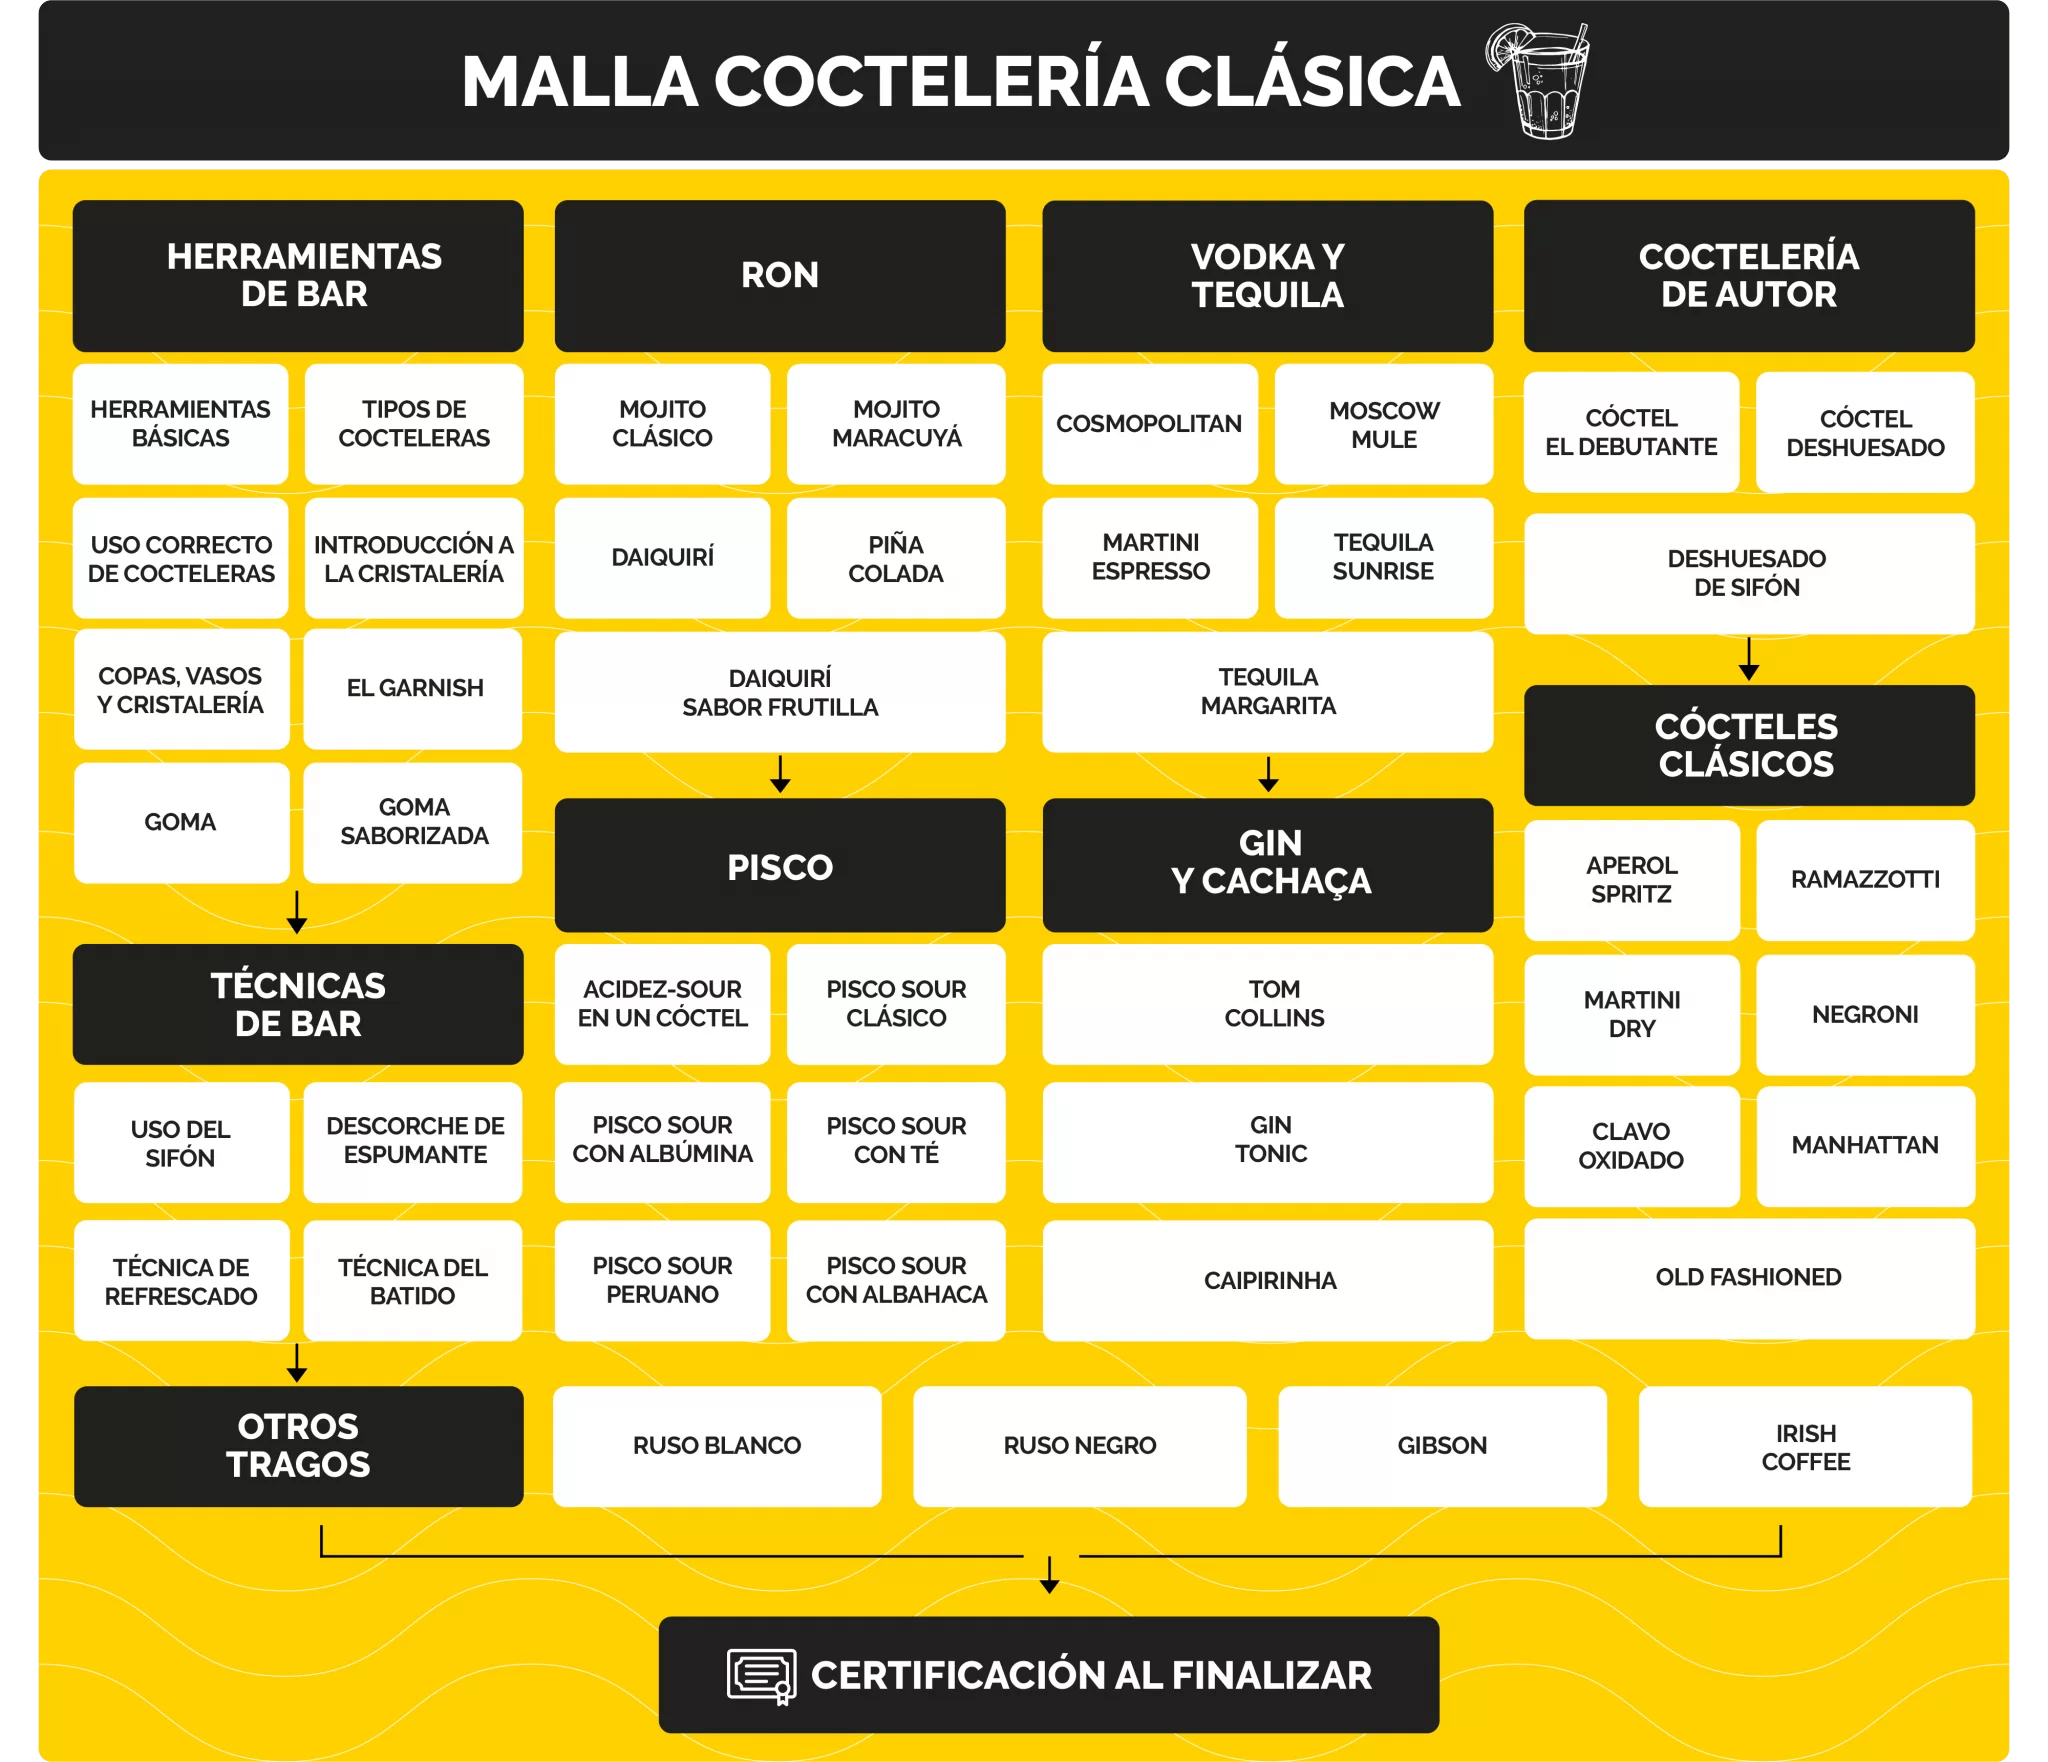
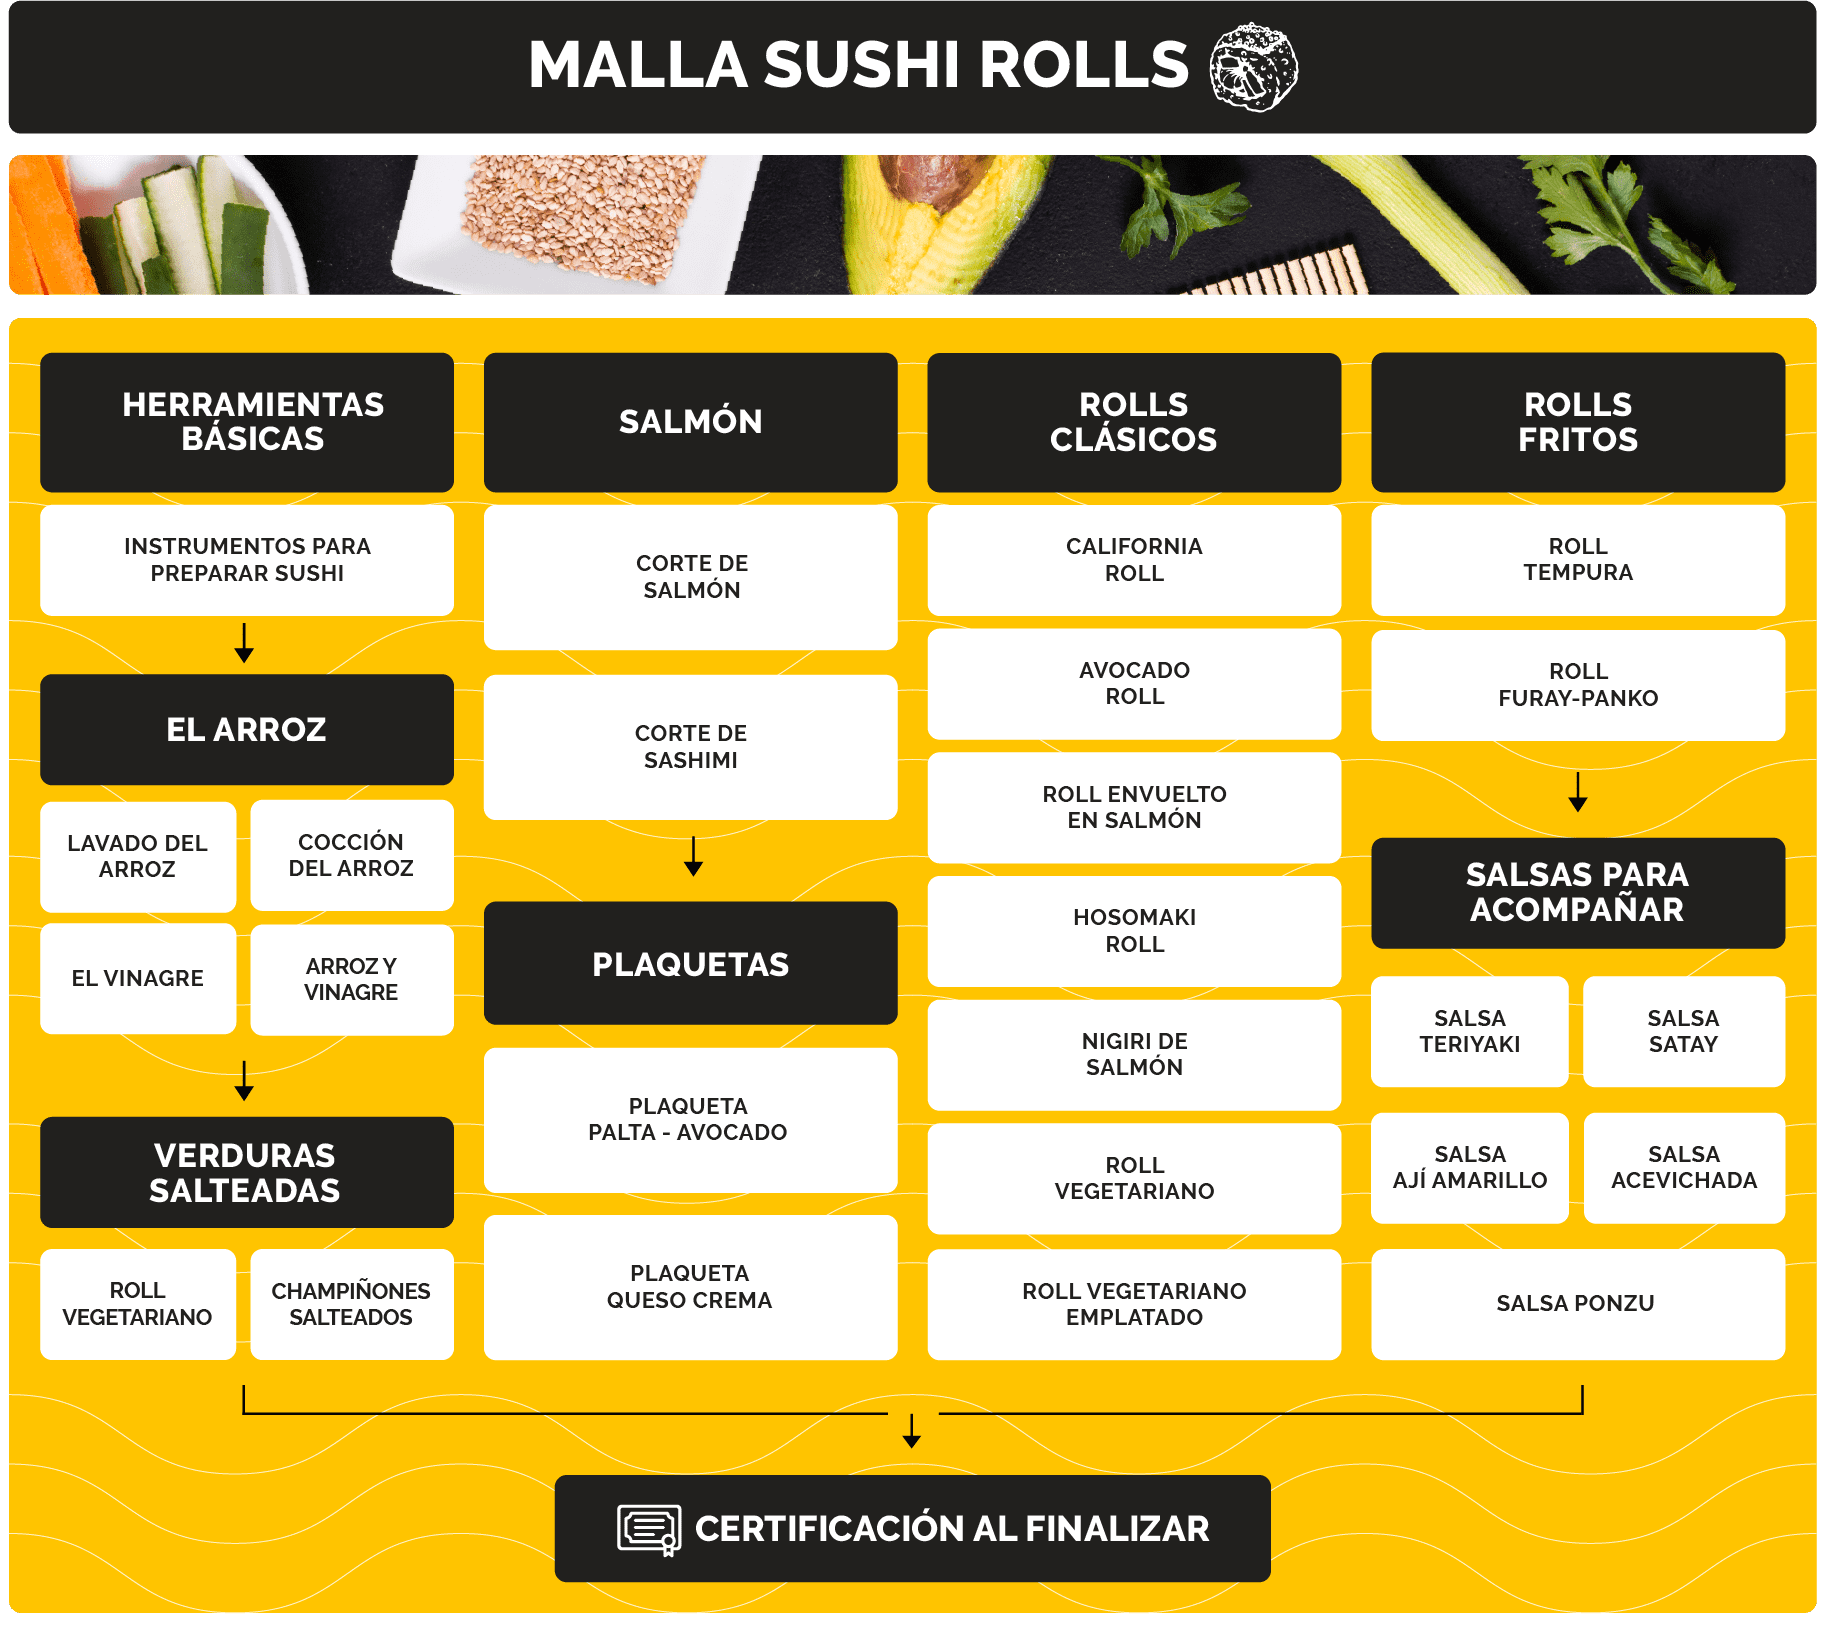
Sushi Roll

diff --git a/index.html b/index.html
@@ -13,8 +13,8 @@
 <body>
   <div class="container-svg">
     <div id="students" class="container_header">
-      <h2><strong>- 60% DESC →</strong> CURSO DE POR VIDA DESDE 45 USD 🍣</h2>
-      <h2 class="strong-header">- 60% → COMPRA MAS BARATO</h2>
+      <h2><strong> 60% DESC →</strong> CURSO DE POR VIDA DESDE 45 USD 🍣</h2>
+      <h2 class="strong-header">60% → COMPRA MAS BARATO</h2>
     </div>
     <div class="PageWeb">
       <div class="hero">
@@ -71,7 +71,7 @@
           </div>
         </div>
         <div class="primary-button">
-          <a href="https://go.hotmart.com/F61397187D?ap=d2a8" target="_blank"><span>COMPRAR AHORA</span></a>
+          <a href="https://go.hotmart.com/W68960930R?ap=a70f" target="_blank"><span>COMPRAR AHORA</span></a>
         </div>
         <h2 class="metitle metitle2">¿POR QUÉ DEBES TOMAR ESTE CURSO?</h2>
         <div class="content-text-img reason">
@@ -86,25 +86,25 @@
         <h2>BONUS 🎉</h2>
         <div class="container-bonus">
           <div>
-            <figure><img src="https://cursosdecocina.tv/wp-content/uploads/2021/01/E-BOOCK-WEB-COCTELERIA2.png.webp" alt="Libro Photography"></figure>
+            <figure><img src="https://cursosdecocina.tv/wp-content/uploads/2021/01/E-BOOCK-WEB-SUSHI2.png.webp" alt="Libro Photography"></figure>
             <p>CERTIFICACIÓN + LIBRO</p>
-            <p>Al finalizar tu curso, recibirás automáticamente tu certificación de coctelería. Nuestra experiencia através de los años avalan todos los contenidos.</p>
+            <p>Al finalizar tu curso, recibirás automáticamente tu certificación de Sushi Rolls. Nuestra experiencia através de los años avalan todos los contenidos.</p>
           </div>
           <div>
-            <figure><img src="https://previews.123rf.com/images/miloart/miloart1507/miloart150700002/42045509-c%C3%B3cteles-conjunto-infograf%C3%ADa-ilustraci%C3%B3n-del-vector-.jpg" alt="Infografias Photography"></figure>
+            <figure><img src="https://img.freepik.com/vector-gratis/fondo-sushi-japones_1284-19052.jpg?t=st=1648576017~exp=1648576617~hmac=d0c36bc98f8a512eafc09689e6c72764962d2736ee1ea2b0fefeb7986567a694&w=900" alt="Infografias Photography"></figure>
             <p>INFOGRAFIAS GRATIS</p>
             <p>Este recurso sera tu mejor amigo, aca adjunte todos <strong>mis secretos y trucos</strong> que te servirán de guía, la podras tener siempre a la mano.</p>
           </div>
           <div>
             <figure><img src="./assets/masterclases.png" alt="MasterClass Photography"></figure>
             <p>MASTERCLASSES</p>
-            <p>Prepárate con expertos en diferentes tipos de coctelería en una clase exclusiva para nuestros estudiantes.</p>
+            <p>Prepárate con expertos en diferentes tipos de Sushi Rolls en una clase exclusiva para nuestros estudiantes.</p>
           </div>
         </div>
         <div class="container-action">
           <p>TODOS MIS TRÚCOS, HERRAMIENTAS Y EXPERIENCIA:</p>
-          <a>ANTES: 45 USD</a>
-          <P>AHORA: 25 USD</P>
+          <a>ANTES: 125 USD</a>
+          <P>AHORA: 45 USD</P>
         </div>
         <h2 class="metitle">¿QUIÉN SOMOS?</h2>
         <div class="content-text-img">
@@ -120,7 +120,7 @@
             <p class="me">Somos cursosdecocina y te ofrecemos aquí nuestra experiencia de 5 años formando a cientos de entusiastas alumnos que hoy cocinan junto a sus familias o han levantado respetados emprendimientos. Se parte de este movimiento y cumple el sueño de formarte como pastelero, panadero y cocinero con nuestros cursos en línea y presenciales.</p>
             <a class="pageweb" href="https://cursosdecocina.cl/pages/quienes-somos">Visitanos</a>
             <div class="secundary-button">
-              <a href="https://go.hotmart.com/F61397187D?ap=d2a8" target="_blank"><span>QUIERO ACCEDER AL CURSO</span></a>
+              <a href="https://go.hotmart.com/W68960930R?ap=a70f" target="_blank"><span>QUIERO ACCEDER AL CURSO</span></a>
             </div>
           </div>
         </div>
@@ -128,25 +128,25 @@
         <div class="content-text-img temario">
           <div class="contentText">
             <ol>
-              <li>Cuáles son las herramientas y tipos de cocteleras</li>
-              <li>Reseña de copas, vasos y cristalería</li>
-              <li>Cómo preparar goma / saborizada</li>
-              <li>Uso del sifón, técnica de vanguardia</li>
-              <li>Cómo hacer un buen descorche de espumante</li>
-              <li>Técnica de refrescado y de batido</li>
-              <li>Cómo preparar mojito clásico y de maracuyá</li>
-              <li>Cómo preparar un daiquiri y una refrescante piña colada</li>
-              <li>Técnicas de acidez y pisco sour clásico</li>
-              <li>Cómo preparar un pisco sour con albúmina y infusionado con té</li>
-              <li>Cómo preparar un pisco sour con sabor a albahaca fresca maracuyá</li>
-              <li>Cómo preparar un cosmopolitan estilo sex and the city</li>
-              <li>Cómo preparar un moscow mule desde rusia</li>
-              <li>Cómo preparar un tequila sunris, margarita y un martini espresso</li>
-              <li>Cómo preparar un clásico tom collins y un famoso gin tonic</li>
-              <li>Cómo preparar una caipirinha clásica brasileña</li>
-              <li>Cómo preparar el cóctel debutante</li>
-              <li>Cómo preparar un aperol spritz y un ramazzotti clásico</li>
-              <li>Cómo preparar un manhattan y un old fashioned on the rock</li>
+              <li>Herramientas e instrumentos necesarios para preparar sushi</li>
+              <li>Preparación de arroz y vinagre</li>
+              <li>Roll Vegetariano</li>
+              <li>Champiñiones salteados</li>
+              <li>Corte de salmón y sashimi</li>
+              <li>Plaqueta de palta/aguacate/avocado</li>
+              <li>Plaqueta de queso crema</li>
+              <li>California Roll</li>
+              <li>Avocado Roll</li>
+              <li>Roll envuelto en salmón</li>
+              <li>Hosomaki roll</li>
+              <li>Nigiri de salmón</li>
+              <li>Roll vegetariano armado</li>
+              <li>Roll vegetariano emplatado</li>
+              <li>Roll Tempura</li>
+              <li>Roll furay-panko</li>
+              <li>Salsa teriyaki</li>
+              <li>Salsa satay</li>
+              <li>Salsa ají amarillo, acevichada, ponzu</li>
               <li>y mas.... ↓ revisa la malla</li>
             </ol>
           </div>
@@ -161,11 +161,11 @@
     
         </div>
         <div class="primary-button">
-          <a href="https://go.hotmart.com/F61397187D?ap=d2a8" target="_blank"><span>COMPRAR AHORA</span></a>
+          <a href="https://go.hotmart.com/W68960930R?ap=a70f" target="_blank"><span>COMPRAR AHORA</span></a>
         </div>
         <h2 class="metitle">MASTERCLASS GRATUITA ↓</h2>
         <div class="hero">
-          <iframe id="kikevideo" class="iFrameY" src="https://www.youtube.com/embed/E6w93lNcYSM" title="YouTube video player" frameborder="0" allow="accelerometer; autoplay; clipboard-write; encrypted-media; gyroscope; picture-in-picture" allowfullscreen></iframe>
+          <iframe id="kikevideo" class="iFrameY" src="https://www.youtube.com/embed/JV22rY3F2Aw" title="YouTube video player" frameborder="0" allow="accelerometer; autoplay; clipboard-write; encrypted-media; gyroscope; picture-in-picture" allowfullscreen></iframe>
         </div>
         <h2 class="metitle">Malla ↓</h2>
         <div class="image-malla">
@@ -175,12 +175,12 @@
         <div class="students_opinion">
           <div class="container_students">
             <figure><img src="./assets/opinion.jpg" alt=""></figure>
-            <figure><img src="./assets/opinion2.jpg" alt=""></figure>
-            <figure><img src="./assets/opinion3.jpg" alt=""></figure>
+            <figure><img src="https://cursosdecocina.tv/wp-content/uploads/2021/01/opinionsushi4-min-1024x714.jpg.webp" alt=""></figure>
+            <figure><img src="https://cursosdecocina.tv/wp-content/uploads/2021/01/opinionsushi5-min-1024x504.jpg.webp" alt=""></figure>
           </div>
         </div>
         <div class="secundary-button">
-          <a href="https://go.hotmart.com/F61397187D?ap=d2a8" target="_blank"><span>QUIERO ACCEDER AL CURSO</span></a>
+          <a href="https://go.hotmart.com/W68960930R?ap=a70f" target="_blank"><span>QUIERO ACCEDER AL CURSO</span></a>
         </div>
         <div class="space-end"></div>
       </div>

diff --git a/styles.css b/styles.css
@@ -48,7 +48,7 @@ body {
   font-family: sans-serif;
   font-size: 30px;
   font-weight: bold;
-  color: #C09A22;
+  color: #FED301;
 
 }
 
@@ -389,17 +389,17 @@ body {
 
 .card-side.back {
   transform: rotateY(-180deg);
-  background-image: url("https://images.unsplash.com/photo-1544145945-f90425340c7e?ixlib=rb-1.2.1&ixid=MnwxMjA3fDB8MHxwaG90by1wYWdlfHx8fGVufDB8fHx8&auto=format&fit=crop&w=687&q=80");
+  background-image: url("https://images.pexels.com/photos/9618223/pexels-photo-9618223.jpeg?cs=srgb&dl=pexels-anastasia-belousova-9618223.jpg&fm=jpg");
   background-size: cover;
   
 }
 
 .card-side.front {
-  background-image: url("https://images.unsplash.com/photo-1510626176961-4b57d4fbad03?ixlib=rb-1.2.1&ixid=MnwxMjA3fDB8MHxwaG90by1wYWdlfHx8fGVufDB8fHx8&auto=format&fit=crop&w=687&q=80");
+  background-image: url("https://images.unsplash.com/photo-1579584425555-c3ce17fd4351?ixlib=rb-1.2.1&ixid=MnwxMjA3fDB8MHxwaG90by1wYWdlfHx8fGVufDB8fHx8&auto=format&fit=crop&w=327&q=80");
   background-size: cover;
 
 }
-
+/* https://images.unsplash.com/photo-1582450871972-ab5ca641643d?ixlib=rb-1.2.1&ixid=MnwxMjA3fDB8MHxwaG90by1wYWdlfHx8fGVufDB8fHx8&auto=format&fit=crop&w=387&q=80 */
 .card-side.back2 {
   transform: rotateY(-180deg);
   background-image: url("./assets/crea.png");
@@ -423,7 +423,7 @@ body {
 }
 
 .card-side.front4 {
-  background-image: url("https://images.unsplash.com/photo-1612083111364-90edbf4132aa?ixid=MnwxMjA3fDB8MHxwaG90by1wYWdlfHx8fGVufDB8fHx8&ixlib=rb-1.2.1&auto=format&fit=crop&w=687&q=80");
+  background-image: url("https://images.unsplash.com/photo-1636425732174-8700a53e8dd4?ixlib=rb-1.2.1&ixid=MnwxMjA3fDB8MHxwaG90by1wYWdlfHx8fGVufDB8fHx8&auto=format&fit=crop&w=387&q=80");
   background-size: cover;
 }
 .metitle2{
@@ -770,6 +770,12 @@ section:nth-child(4) {
     background-image: none;
 
   }
+  .hero h1{
+
+    color: #C09A22;
+
+  
+  }
   .hero p{
     color: black;
   }
@@ -829,6 +835,10 @@ section:nth-child(4) {
     -ms-transform: scale(0.45, 0.45);
     -webkit-transform: scale(0.45, 0.45);
     transform: scale(0.45, 0.45);
+  }
+  .card-side.front {
+    background-image: url("https://images.unsplash.com/photo-1628676825875-031ad212c31e?ixlib=rb-1.2.1&ixid=MnwxMjA3fDB8MHxwaG90by1wYWdlfHx8fGVufDB8fHx8&auto=format&fit=crop&w=387&q=80");
+  
   }
 }
 @media (max-width: 510px) {

diff --git a/index.js b/index.js
@@ -41,7 +41,7 @@ const write = (word)=>{
 }
 //CEO DevFolio,Web Developer,Web Designer,Frontend Developer,Graphic Designer
 const getWord = (beforeWord)=>{
-  const messages = ["INSCRIBETE 🍣", "ÚLTIMOS CUPOS", "🍣🍣🍣", "80% DSCTO"];
+  const messages = ["INSCRIBETE 🍣", "ÚLTIMOS CUPOS", "🍣🍣🍣", "60% DE DESCUENTO!"];
   const index=messages.indexOf(beforeWord)
   if(index===messages.length-1){
     return messages[0]
@@ -62,7 +62,7 @@ const eraser = (word, count)=>{
     c++
   },30)
 }
-write("80% DSCTO")
+write("60% DE DESCUENTO!")
 
 const containerHeader = document.getElementById('students')
 console.log(containerHeader)
